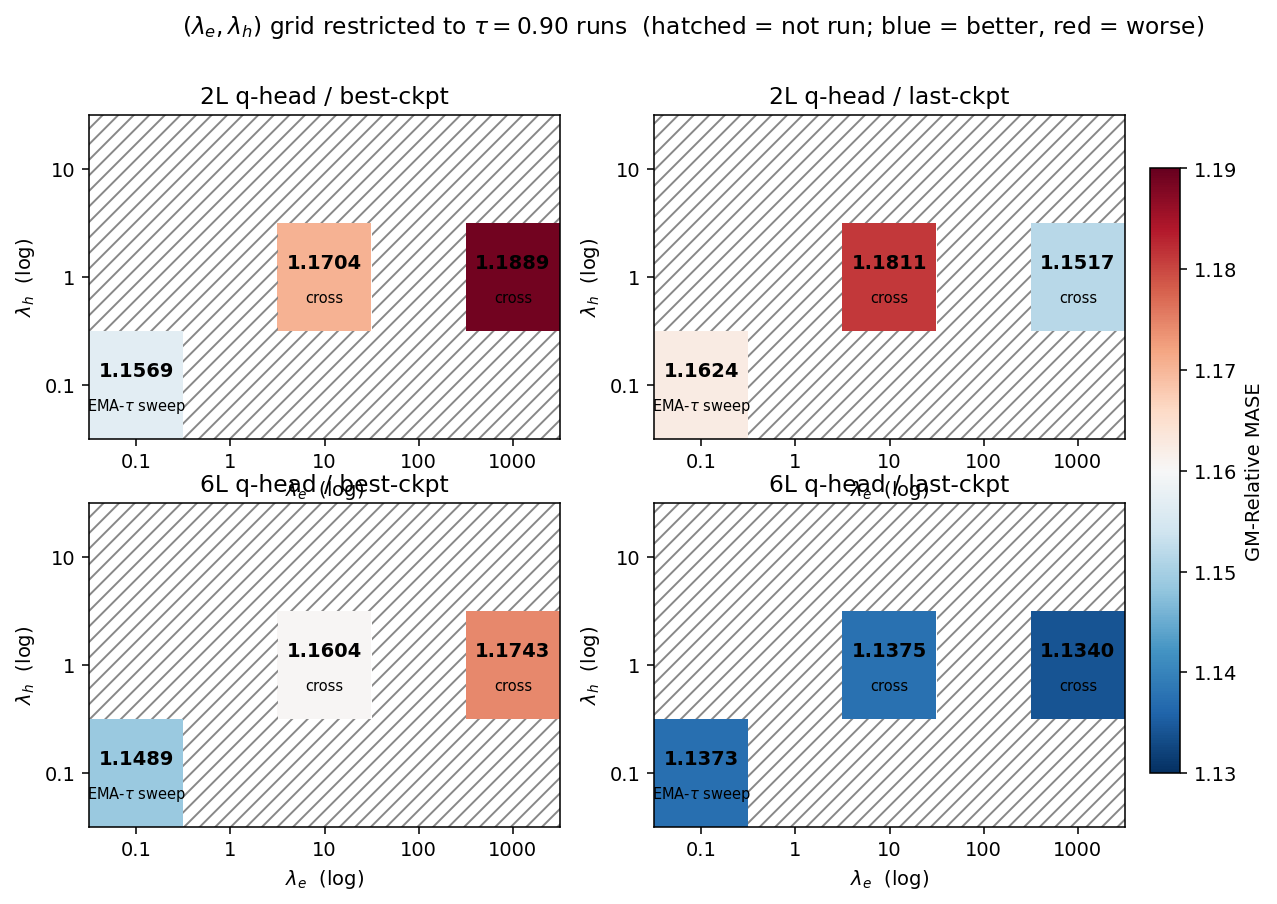
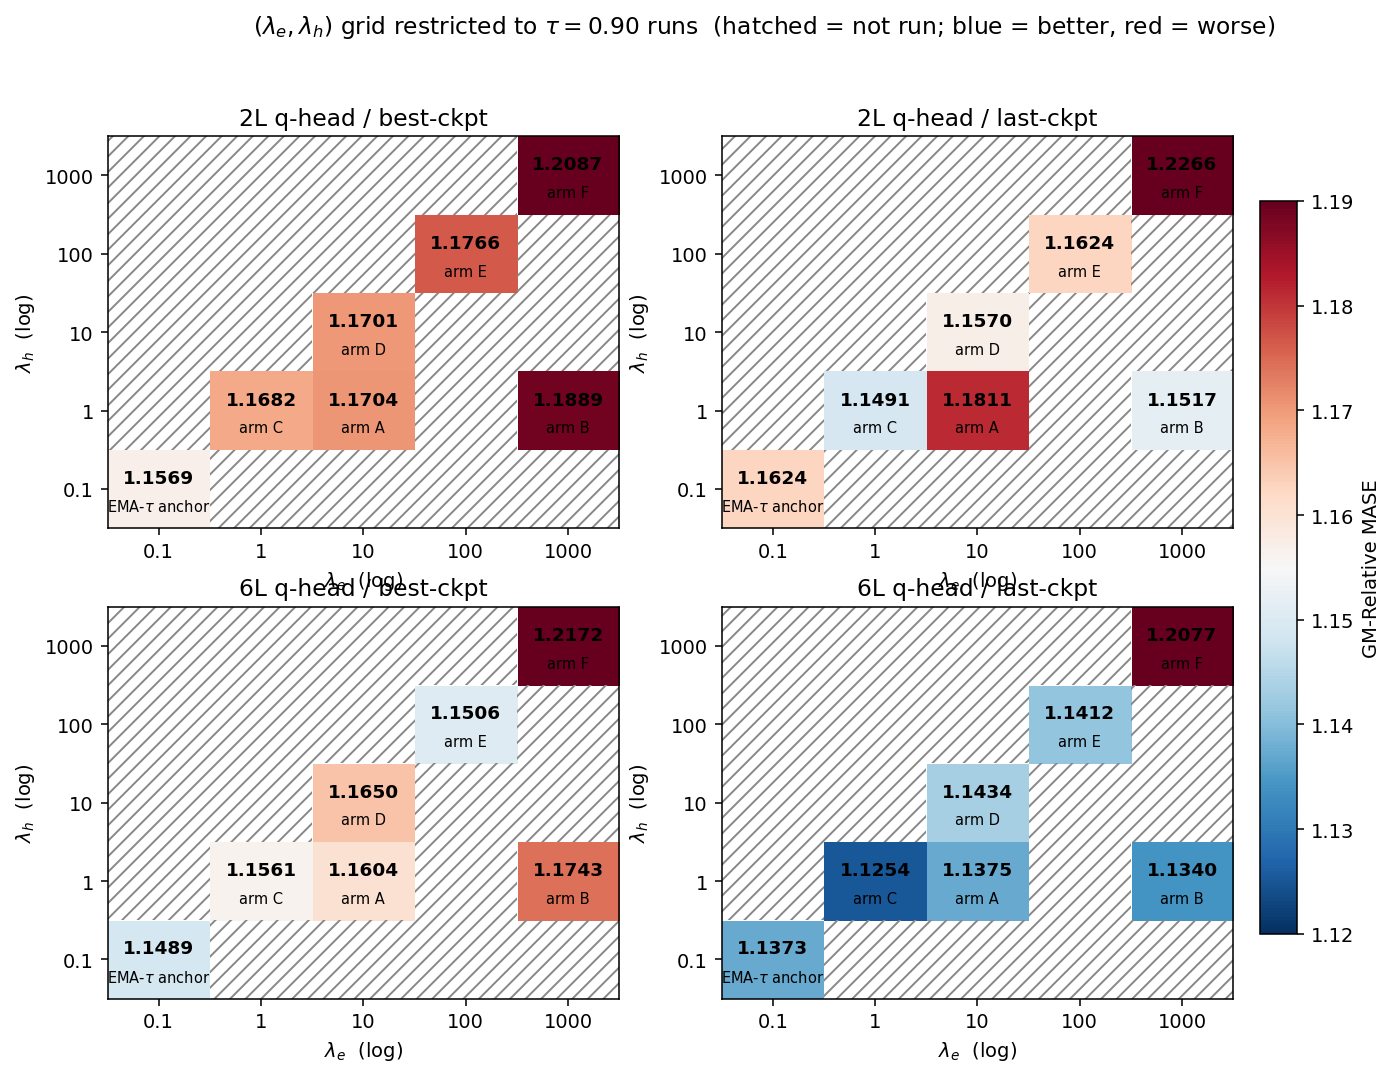
report(#366): extend τ=0.90 grid to 7 arms + add last-best drift heatmap
Adds four more (λ_e, λ_h) cells at τ=0.90: (1, 1) arm C, (10, 10) arm D,
(100, 100) arm E, (1000, 1000) arm F — filling the grid diagonal.
gm_table.csv gains 16 rows (4 arms × 4 cells each). build_gm_table.sh
extends its arm list and label map; launch_arms_cd.sh, _ef.sh, _gh.sh
capture the C/D, E/F, G/H orchestration.

New figure `lambda_grid_last_minus_best_tau090.png` shows the last-vs-
best drift per grid cell, one panel per q-head depth. Blue = last
improved on best (happy); red = last regressed.

Best 6L/last on the grid so far is arm C (λ=1, λ_h=1) at 1.1254.
Arm G (λ_e=100, λ_h=10) and arm H (λ_e=1, λ_h=10) are launching to
fill the λ_h=10 row alongside arm D.

Claude-Session: https://claude.ai/code/session_01Th9HQZkNmqHrm8YpSQ83S3

diff --git a/reports/2026-06-28_sigreg_lambda_tau_cross/plots/_make_plots.py b/reports/2026-06-28_sigreg_lambda_tau_cross/plots/_make_plots.py
@@ -17,8 +17,19 @@ def cell(arm: str, head: str, ckpt: str, col: str = "gm") -> float:
     return float(row[col].iloc[0])
 
 
+def cell_opt(arm: str, head: str, ckpt: str, col: str = "gm") -> float | None:
+    row = GM[(GM["arm"] == arm) & (GM["head"] == head) & (GM["ckpt"] == ckpt)]
+    if row.empty:
+        return None
+    return float(row[col].iloc[0])
+
+
 CROSS_A = "cross_A"
 CROSS_B = "cross_B"
+CROSS_C = "cross_C"
+CROSS_D = "cross_D"
+CROSS_E = "cross_E"
+CROSS_F = "cross_F"
 A363_E100 = "anchor_363_emb100_enc10"
 A363_E10000 = "anchor_363_emb10000_enc10"
 A357 = "anchor_357_tau090"
@@ -153,26 +164,37 @@ def lambda_grid_tau090():
     Unmeasured cells are hatched. Colour is GM-Relative MASE.
     """
     lam_e = [0.1, 1.0, 10.0, 100.0, 1000.0]
-    lam_h = [0.1, 1.0, 10.0]
+    lam_h = [0.1, 1.0, 10.0, 100.0, 1000.0]
     cells_tau090 = {
-        (0.1,  0.1):  A357,
-        (10.0, 1.0):  CROSS_A,
-        (1000.0, 1.0): CROSS_B,
+        (0.1,   0.1):    A357,
+        (1.0,   1.0):    CROSS_C,
+        (10.0,  1.0):    CROSS_A,
+        (10.0,  10.0):   CROSS_D,
+        (100.0, 100.0):  CROSS_E,
+        (1000.0, 1.0):   CROSS_B,
+        (1000.0, 1000.0): CROSS_F,
     }
     arm_short = {
-        A357:    r"EMA-$\tau$ sweep",
-        CROSS_A: "cross",
-        CROSS_B: "cross",
+        A357:    r"EMA-$\tau$ anchor",
+        CROSS_A: "arm A",
+        CROSS_B: "arm B",
+        CROSS_C: "arm C",
+        CROSS_D: "arm D",
+        CROSS_E: "arm E",
+        CROSS_F: "arm F",
     }
 
-    fig, axes = plt.subplots(2, 2, figsize=(11.5, 6.6))
-    vmin, vmax = 1.13, 1.19
+    fig, axes = plt.subplots(2, 2, figsize=(12.5, 8.0))
+    vmin, vmax = 1.12, 1.19
     cmap = plt.get_cmap("RdBu_r")
     for ax, (head, ckpt) in zip(axes.ravel(), GROUPS):
         grid = np.full((len(lam_h), len(lam_e)), np.nan)
         for (le, lh), arm in cells_tau090.items():
+            v = cell_opt(arm, head, ckpt)
+            if v is None:
+                continue
             i = lam_h.index(lh); j = lam_e.index(le)
-            grid[i, j] = cell(arm, head, ckpt)
+            grid[i, j] = v
         im = ax.imshow(grid, cmap=cmap, vmin=vmin, vmax=vmax,
                        origin="lower", aspect="auto")
         for i in range(len(lam_h)):
@@ -184,10 +206,10 @@ def lambda_grid_tau090():
                                                edgecolor="#888", linewidth=0))
                 else:
                     arm = cells_tau090[(lam_e[j], lam_h[i])]
-                    ax.text(j, i + 0.13, f"{v:.4f}",
-                            ha="center", va="center", fontsize=10,
+                    ax.text(j, i + 0.14, f"{v:.4f}",
+                            ha="center", va="center", fontsize=9.5,
                             fontweight="bold", color="black")
-                    ax.text(j, i - 0.20, arm_short[arm],
+                    ax.text(j, i - 0.22, arm_short[arm],
                             ha="center", va="center", fontsize=7.5,
                             color="black")
         ax.set_xticks(range(len(lam_e)))
@@ -209,9 +231,79 @@ def lambda_grid_tau090():
     plt.close(fig)
 
 
+def lambda_grid_last_minus_best_tau090():
+    """(last − best) GM-Rel MASE per (λ_e, λ_h) cell at τ=0.90, one panel per
+    head depth. Negative = last-ckpt beat best-ckpt (blue, we're happy).
+    Positive = last regressed vs best (red).
+    """
+    lam_e = [0.1, 1.0, 10.0, 100.0, 1000.0]
+    lam_h = [0.1, 1.0, 10.0, 100.0, 1000.0]
+    cells_tau090 = {
+        (0.1,   0.1):    A357,
+        (1.0,   1.0):    CROSS_C,
+        (10.0,  1.0):    CROSS_A,
+        (10.0,  10.0):   CROSS_D,
+        (100.0, 100.0):  CROSS_E,
+        (1000.0, 1.0):   CROSS_B,
+        (1000.0, 1000.0): CROSS_F,
+    }
+    arm_short = {A357: r"EMA-$\tau$ anchor", CROSS_A: "arm A",
+                 CROSS_B: "arm B", CROSS_C: "arm C", CROSS_D: "arm D",
+                 CROSS_E: "arm E", CROSS_F: "arm F"}
+    heads = ["2L", "6L"]
+
+    fig, axes = plt.subplots(1, 2, figsize=(12.5, 5.4))
+    vmax = 0.045
+    cmap = plt.get_cmap("RdBu_r")
+    for ax, head in zip(axes.ravel(), heads):
+        grid = np.full((len(lam_h), len(lam_e)), np.nan)
+        for (le, lh), arm in cells_tau090.items():
+            v_best = cell_opt(arm, head, "best")
+            v_last = cell_opt(arm, head, "last")
+            if v_best is None or v_last is None:
+                continue
+            i = lam_h.index(lh); j = lam_e.index(le)
+            grid[i, j] = v_last - v_best
+        im = ax.imshow(grid, cmap=cmap, vmin=-vmax, vmax=vmax,
+                       origin="lower", aspect="auto")
+        for i in range(len(lam_h)):
+            for j in range(len(lam_e)):
+                v = grid[i, j]
+                if np.isnan(v):
+                    ax.add_patch(plt.Rectangle((j - 0.5, i - 0.5), 1, 1,
+                                               fill=False, hatch="///",
+                                               edgecolor="#888", linewidth=0))
+                else:
+                    arm = cells_tau090[(lam_e[j], lam_h[i])]
+                    ax.text(j, i + 0.14, f"{v:+.4f}",
+                            ha="center", va="center", fontsize=9.5,
+                            fontweight="bold", color="black")
+                    ax.text(j, i - 0.22, arm_short[arm],
+                            ha="center", va="center", fontsize=7.5,
+                            color="black")
+        ax.set_xticks(range(len(lam_e)))
+        ax.set_xticklabels([f"{v:g}" for v in lam_e])
+        ax.set_yticks(range(len(lam_h)))
+        ax.set_yticklabels([f"{v:g}" for v in lam_h])
+        ax.set_xlabel(r"$\lambda_e$  (log)")
+        ax.set_ylabel(r"$\lambda_h$  (log)")
+        ax.set_title(f"{head} q-head")
+    fig.colorbar(im, ax=axes.ravel().tolist(), shrink=0.85, pad=0.02,
+                 label="GM-Rel MASE  (last − best)")
+    fig.suptitle(
+        r"last − best drift per $(\lambda_e, \lambda_h)$ cell at $\tau{=}0.90$"
+        "  (blue = last beats best; red = last regresses)",
+        y=1.00,
+    )
+    fig.savefig(HERE / "lambda_grid_last_minus_best_tau090.png", dpi=140,
+                bbox_inches="tight")
+    plt.close(fig)
+
+
 if __name__ == "__main__":
     headline()
     cross_vs_best_anchor()
     four_metric()
     lambda_grid_tau090()
+    lambda_grid_last_minus_best_tau090()
     print("plots written to", HERE)

diff --git a/reports/2026-06-28_sigreg_lambda_tau_cross/sigreg_lambda_tau_cross.md b/reports/2026-06-28_sigreg_lambda_tau_cross/sigreg_lambda_tau_cross.md
@@ -89,13 +89,25 @@ coding as the headline figure.](plots/four_aggregates.png)
 ## (λ_e, λ_h) grid at τ=0.90
 
 The same headline GM-Relative MASE plotted as a (λ_e, λ_h) heatmap
-restricted to the τ=0.90 runs. Three cells are measured: the EMA-τ-sweep
-anchor at the corner (λ_e=λ_h=0.1) and the two crosses (λ_e=10, λ_h=1)
-and (λ_e=1000, λ_h=1). Hatched cells are not run.
+restricted to the τ=0.90 runs. Seven cells are measured — the EMA-τ-sweep
+anchor at (λ_e=λ_h=0.1) plus six additional arms filling the grid at
+(1, 1), (10, 1), (10, 10), (100, 100), (1000, 1) and (1000, 1000).
+Hatched cells are not run.
 
 ![2×2 grid: (λ_e, λ_h) heatmap of GM-Relative MASE, one panel per
-(head × checkpoint) group. Three filled cells; the rest hatched.
+(head × checkpoint) group. Seven filled cells; the rest hatched.
 Blue = better, red = worse.](plots/lambda_grid_tau090.png)
+
+## (last − best) drift per grid cell
+
+Same seven cells, plotted as the checkpoint drift `GM-Rel MASE(last) −
+GM-Rel MASE(best)`, one panel per q-head depth. Negative (blue) means the
+`last` checkpoint improved on the `best` checkpoint after the extra
+training steps; positive (red) means it regressed.
+
+![Two-panel heatmap of (last − best) drift per (λ_e, λ_h) cell at
+τ=0.90, one panel per q-head depth. Blue = last beats best; red = last
+regresses.](plots/lambda_grid_last_minus_best_tau090.png)
 
 ## Method
 
